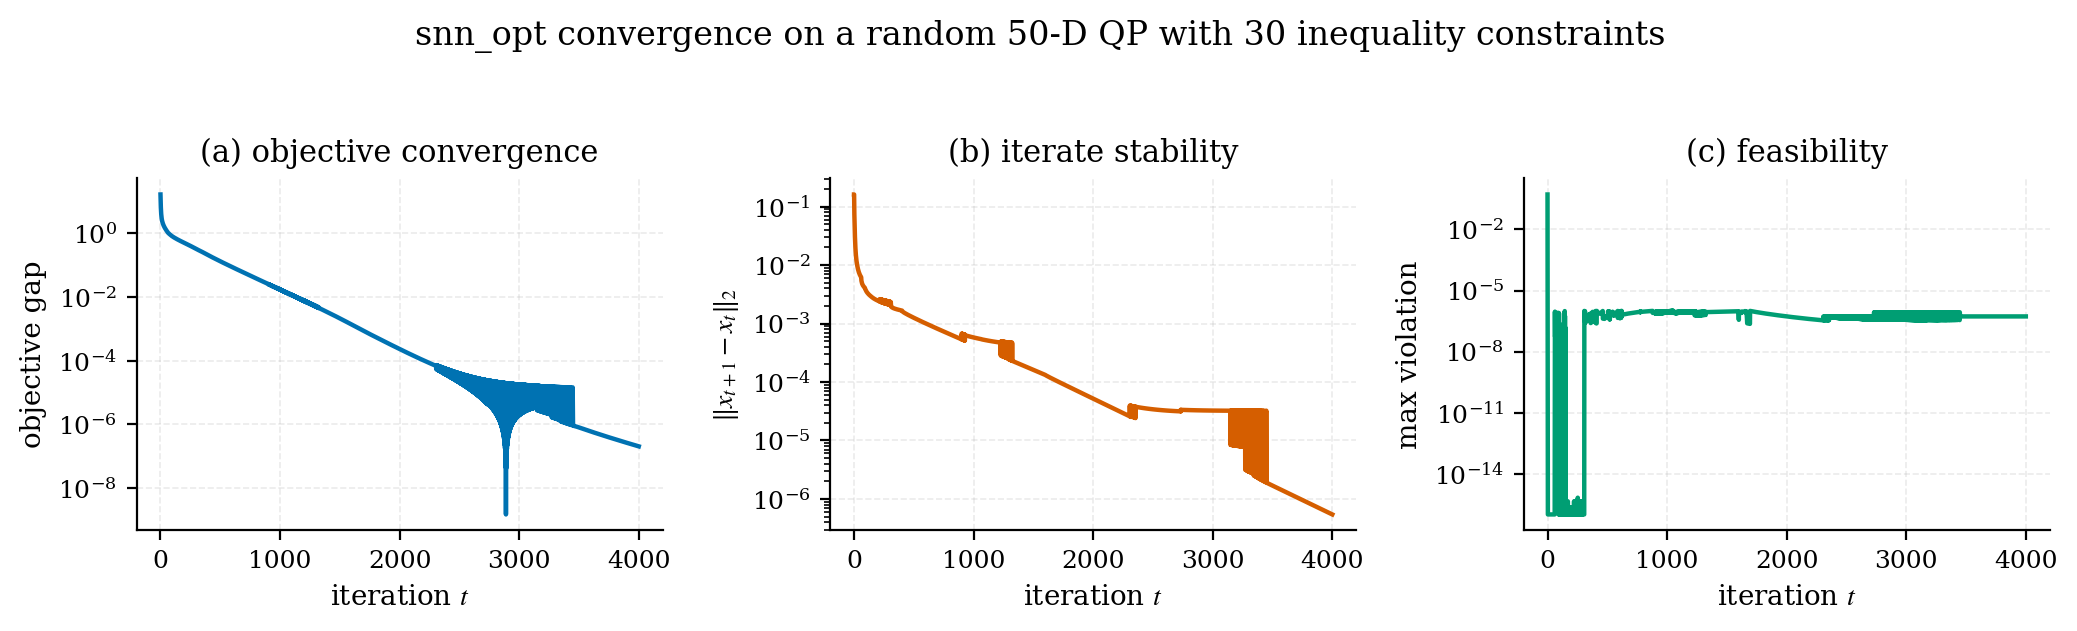
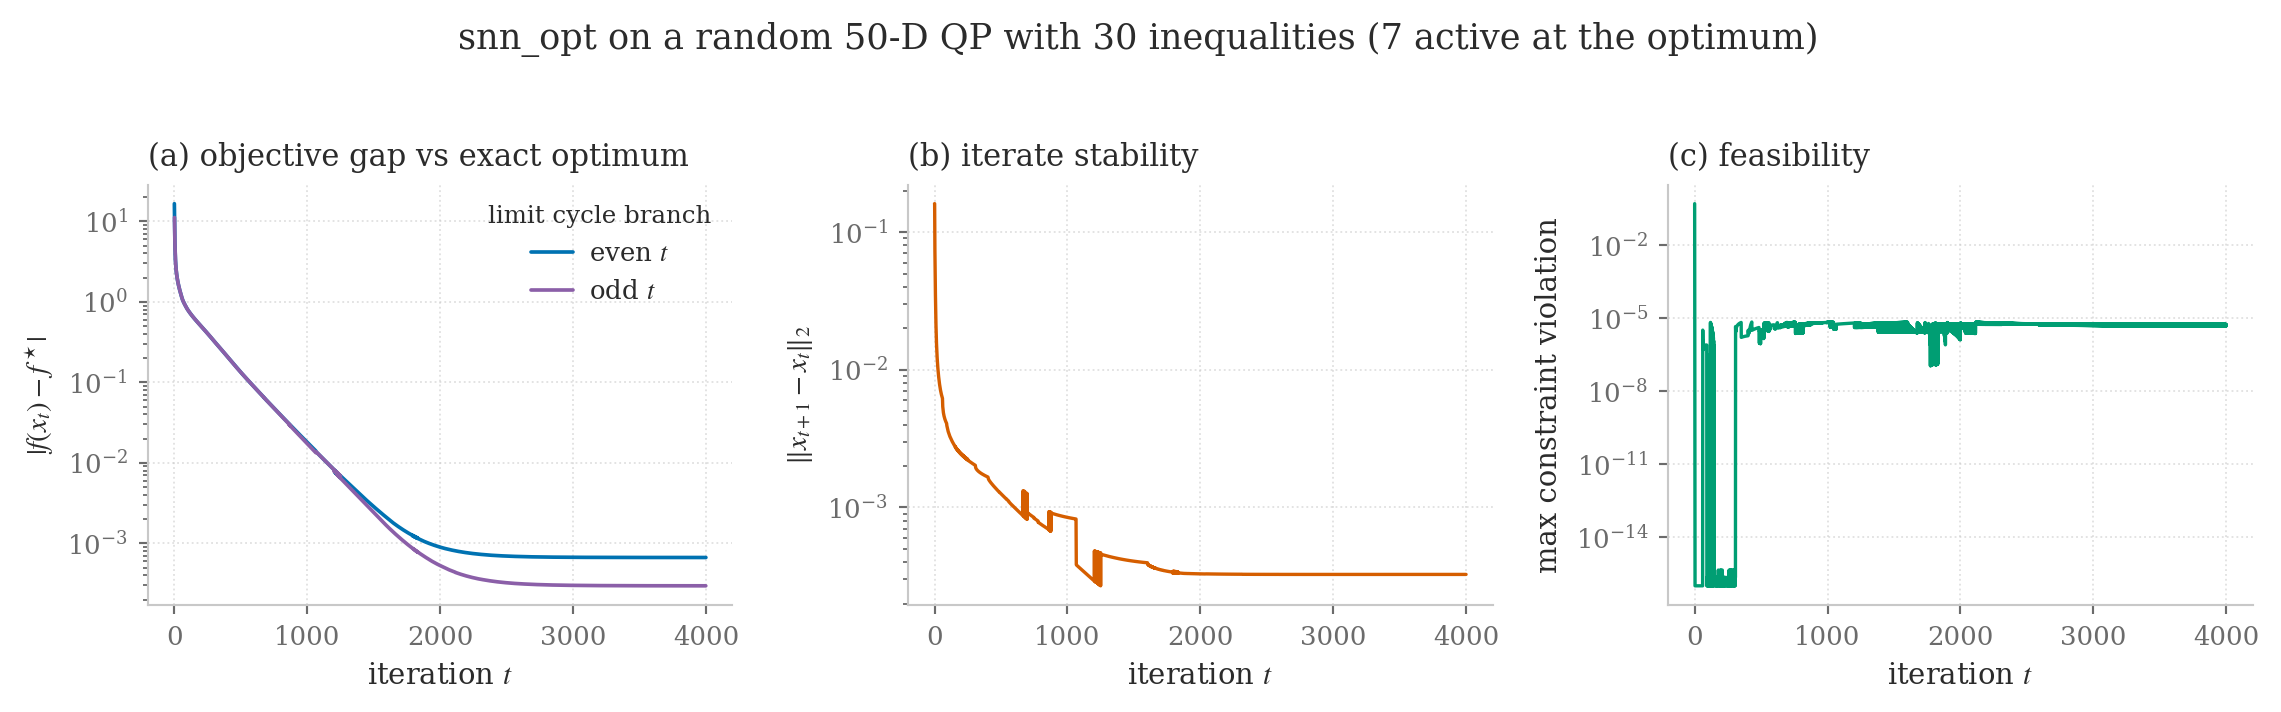
content: refresh against snn_opt v0.5.0, mirror new figures
Content and figure refresh to match the snn_opt v0.5.0 documentation
overhaul. Design system unchanged.

- Mirror the four regenerated figures from SNN_opt/figures, including the
  new accuracy-tuning figure, and rework the landing-page picture caption
  for the new 8-D polytope raster.
- Add a "Where it stops" accuracy section to the landing page teaching
  joint_feasible, stationarity_residual and projection_budget_exhausted.
- Correct the SVM tutorial: it presented the pre-v0.5.0 terminal box clip
  as a stability feature, which is the POCS defect v0.5.0 fixed and the
  SVM dual is its worst case. Now a callout warning to use v0.5.0+ and
  check joint_feasible.
- Update the quickstart with a "Checking the answer" section and the
  spike-raster tutorial for bound-facet spike IDs and the new raster.
- Drop the in-review SNN-X method enumeration from the intro; bump the
  version chip to v0.5; add an aside callout style; remove em-dashes.

diff --git a/src/styles/global.css b/src/styles/global.css
@@ -217,6 +217,21 @@ blockquote {
   background: linear-gradient(to right, var(--color-accent-soft) 0%, transparent 80%);
 }
 
+/* Callout note. Distinct from blockquote: a quote is someone else's words,
+   a callout is ours, so it gets the paper surface rather than the accent rule. */
+.prose-content aside {
+  background: var(--color-paper);
+  border: 1px solid var(--color-rule);
+  border-left: 3px solid var(--color-accent);
+  border-radius: 0.4rem;
+  padding: 1.1rem 1.3rem;
+  margin: 1.8rem 0;
+  font-size: 0.95em;
+}
+
+.prose-content aside > :first-child { margin-top: 0; }
+.prose-content aside > :last-child { margin-bottom: 0; }
+
 hr {
   border: none;
   border-top: 1px solid var(--color-rule);
